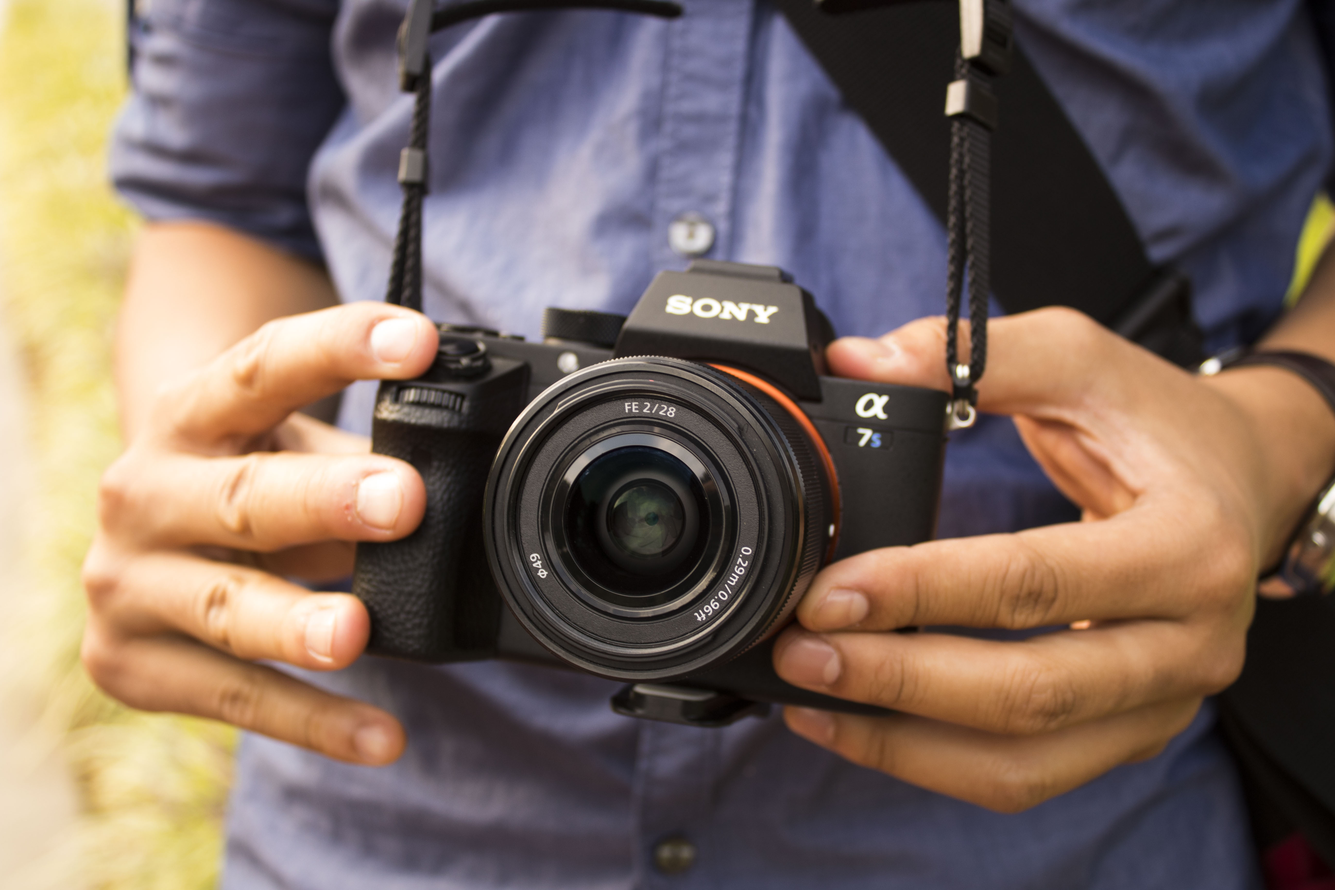
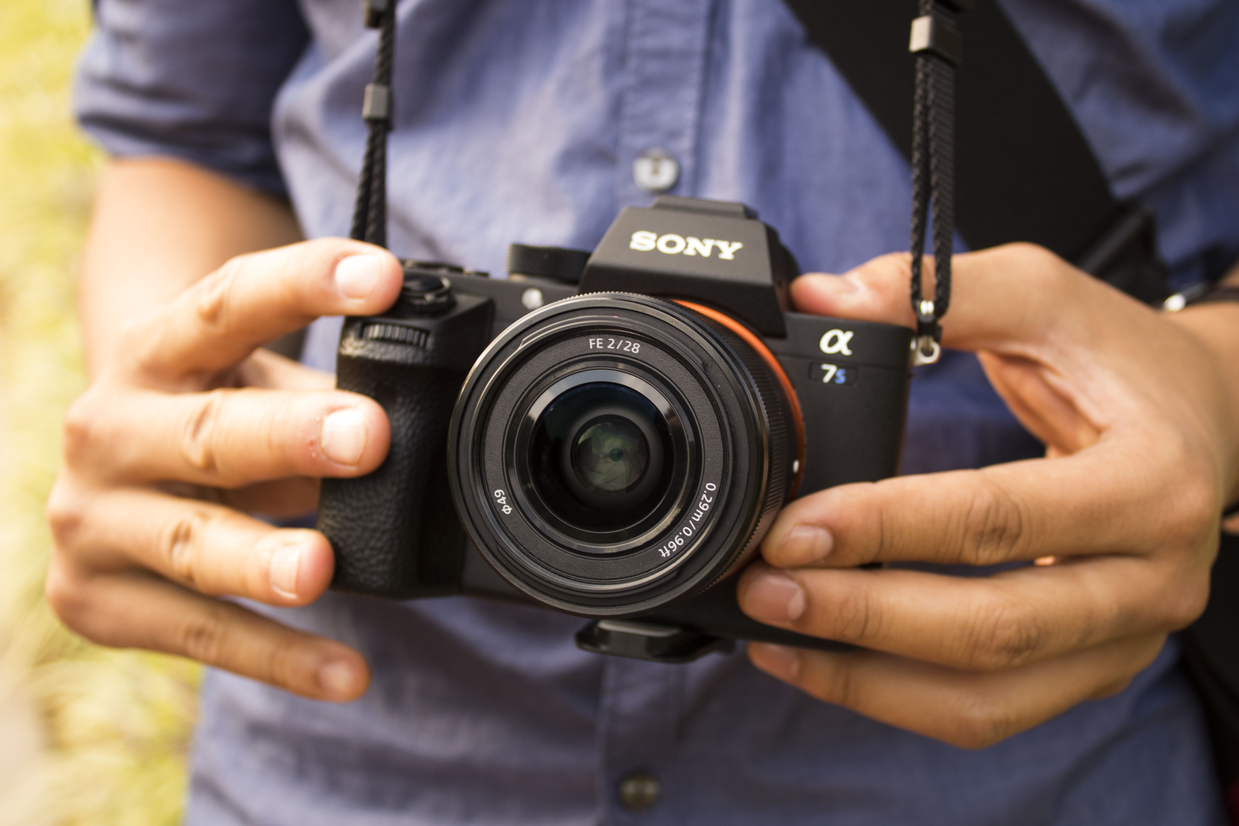
Changes to Carousel images

diff --git a/index.php b/index.php
@@ -28,13 +28,9 @@
 			function animateWelcome() {
 				$('#welcomeTitle1')
 					.delay(1000)
-					.animate({ opacity: 1 }, 1000)
+					.animate({ opacity: 1 }, 1000) 
 					.delay(2000)
-					.animate({ left: "-=1000px" }, 'slow')
-					.delay(1000)
-					.animate({ left: "+=900px", top: "-=200px" }, 'slow')
-					.delay(2000)
-					.animate({ top: "-=500px"}, 'slow' );
+					.animate({ left: "-=1100px" }, 'slow');
 
 				$('#welcomeTitle2')
 					.delay(2000)
@@ -42,12 +38,20 @@
 					.delay(1000)
 					.animate({ left: "+=1200px" }, 'slow');
 
-				$('.jjImage')
-					.delay(5000)
-					.animate({ opacity: 0.65 }, 3000);
+				$('#carouselIndex')
+					.delay(3500)
+					.animate({ opacity: 1 }, 3000);
 				
-				setTimeout(function() {
-					$('#welcomeTitle1').html('<-- This is me');}, 5000);
+				//setTimeout(function() {
+				//	$('#welcomeTitle1').html('<-- This is me');}, 5000);
+
+				$('.carousel-control-prev').click(function() {
+				 	$('#carouselIndex').carousel('prev');
+				});
+
+				$('.carousel-control-next').click(function() {
+				 	$('#carouselIndex').carousel('next');
+				});
 
 			}
 
@@ -62,19 +66,8 @@
 			}
 
 			.welcomeTitle {
-				opacity: 0;
 				position: relative;
-			}
-
-			.jjImage {
-				background-image: url("images/gallery-photos/Carousel_1.png");
-				background-position: center;
-				background-repeat: no-repeat;
-				background-size: cover;
-				height: 100%;
 				opacity: 0;
-				position: relative;
-				z-index: -1;
 			}
 
 			#carouselIndex {
@@ -82,17 +75,23 @@
 
 			.carousel-inner img {
 			    opacity: 0.65;
+			    margin-top: -100px;
 			}
 
-			.carousel,.item,.active{height:100%;}
-			.carousel-inner{height:100%;}
+			.carousel,.item,.active {
+				height:100%;
+			}
+
+			.carousel-inner {
+				height:100%;
+			}
 
 		</style>
 	</head>
 	<body>
 		<!-- Navbar -->
-		<div id="navbar" class="w3-container" style="position: relative; padding: 0px 0px; z-index: 10;">
-			<ul id="navbarMenu" class="w3-center w3-animate-top">
+		<div id="navbar" style="position: relative; padding: 0px 0px; z-index: 10;">
+			<ul id="navbarMenu">
 			  <li>
 			  	<a class="active" href="#" >Home</a>
 			  </li>
@@ -111,25 +110,25 @@
 			</ul>
 		</div>
 
-		<!-- Background image -->
-
 		<!-- Welcome animation -->
-		<div id="welcomeContainer" class="container-fluid" style="position: absolute;">
-			<div id="welcomeText" style="text-align: center; margin-top: -500px;">
+		<div id="welcomeContainer" class="container-fluid" style="">
+			<div id="welcomeText" style="text-align: center; position: absolute; 
+				z-index: 2; left: 40%; top: 30%;">
 				<h1 class="welcomeTitle" id="welcomeTitle1">Hello!</h1>
 				<h1 class="welcomeTitle" id="welcomeTitle2">I'm glad you could make it.</h1>
 			</div>
 		</div>
 
-		<div id="carouselIndex" class="carousel slide" data-ride="carousel">
+		<!-- Image Carousel -->
+		<div id="carouselIndex" class="carousel slide" data-interval="5000" data-ride="carousel" style="opacity: 0;">
 		  <ol class="carousel-indicators">
-		    <li data-target="#carouselExampleIndicators" data-slide-to="0" class="active"></li>
-		    <li data-target="#carouselExampleIndicators" data-slide-to="1"></li>
-		    <li data-target="#carouselExampleIndicators" data-slide-to="2"></li>
+		    <li data-target="#carouselIndicators" data-slide-to="0" class="active"></li>
+		    <li data-target="#carouselIndicators" data-slide-to="1"></li>
+		    <li data-target="#carouselIndicators" data-slide-to="2"></li>
 		  </ol>
 		  <div class="carousel-inner" role="listbox">
 		    <div class="carousel-item active">
-		      <img class="d-block img-fluid" src="images/gallery-photos/Carousel_1.png" alt="First slide">
+		      <img class="d-block img-fluid" src="images/gallery-photos/Carousel_1.jpg" alt="First slide">
 		    </div>
 		    <div class="carousel-item">
 		      <img class="d-block img-fluid" src="images/gallery-photos/Carousel_2.jpg" alt="Second slide">
@@ -138,19 +137,14 @@
 		      <img class="d-block img-fluid" src="images/gallery-photos/Carousel_3.jpg" alt="Third slide">
 		    </div>
 		  </div>
-		  <a class="carousel-control-prev" href="#carouselExampleIndicators" role="button" data-slide="prev">
+		  <a class="carousel-control-prev" href="#carouselIndicators" role="button" data-slide="prev">
 		    <span class="carousel-control-prev-icon" aria-hidden="true"></span>
 		    <span class="sr-only">Previous</span>
 		  </a>
-		  <a class="carousel-control-next" href="#carouselExampleIndicators" role="button" data-slide="next">
+		  <a class="carousel-control-next" href="#carouselIndicators" role="button" data-slide="next" style="color: #707070;">
 		    <span class="carousel-control-next-icon" aria-hidden="true"></span>
 		    <span class="sr-only">Next</span>
 		  </a>
 		</div>
-
-		<div>
-			<h1>Hello!</h1>
-		</div>
-
 	</body>
 </html>
